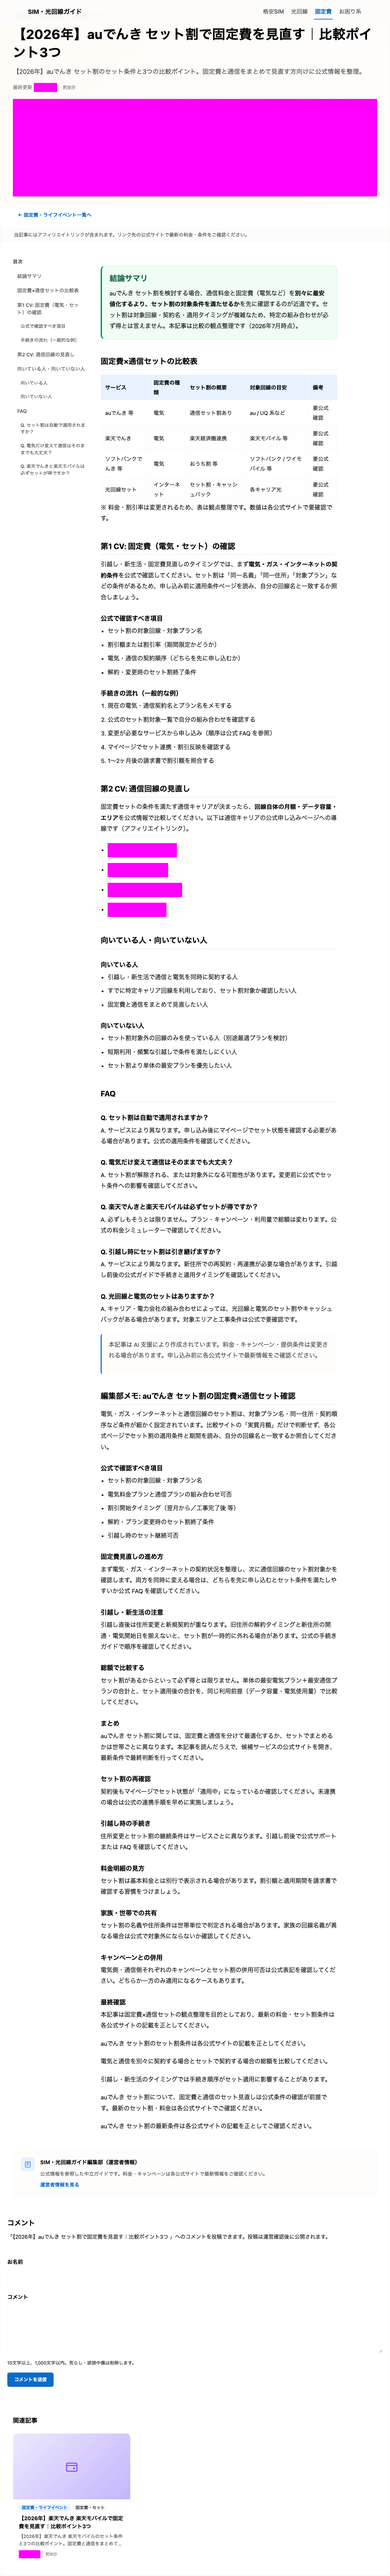
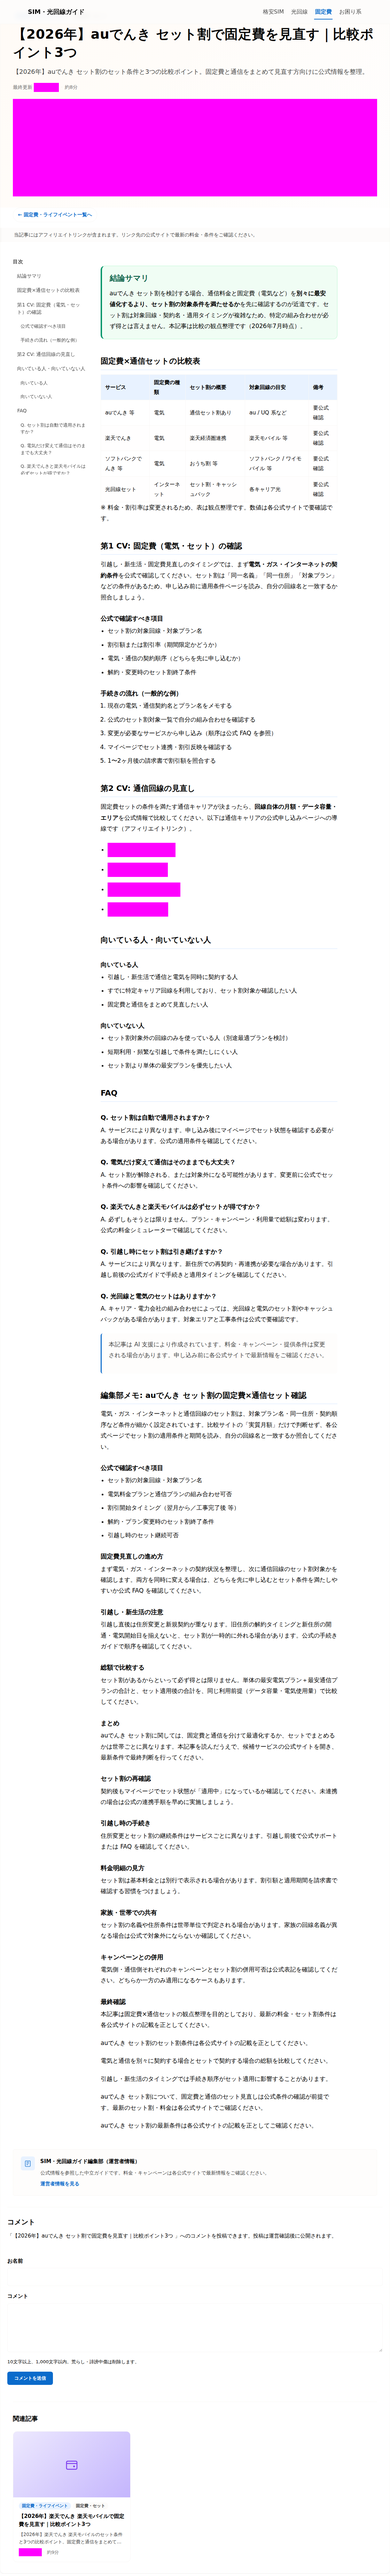
fix(site): keep affiliate CTAs on Vercel builds (#101)
* fix(site): keep affiliate CTAs on Vercel builds

Root-level markdown tables were never wrapped in table-scroll, so CTA
repositioning could still drop links. Sync ASP config into site/config,
clear Astro caches, and fail the build via validate-dist when affiliate
hosts are missing from dist HTML.

* chore(ci): upload visual diff artifacts for PR comment

* chore(ci): update Playwright visual baselines on Linux

* chore(ci): re-trigger CI after baseline update

---------

diff --git a/site/src/utils/asp-urls.ts b/site/src/utils/asp-urls.ts
@@ -37,18 +37,21 @@ type AffiliateRules = {
 };
 
 function resolveConfigDir(): string {
-  const fromSource = join(
-    dirname(fileURLToPath(import.meta.url)),
-    "../../../config",
-  );
-  if (existsSync(join(fromSource, "asp-urls.json"))) {
-    return fromSource;
+  const moduleDir = dirname(fileURLToPath(import.meta.url));
+  const candidates = [
+    // Prefer site-local config (Vercel Root Directory = site).
+    join(moduleDir, "../../config"),
+    join(process.cwd(), "config"),
+    // Monorepo root config (local CI / repo-root tooling).
+    join(moduleDir, "../../../config"),
+    join(process.cwd(), "../config"),
+  ];
+  for (const dir of candidates) {
+    if (existsSync(join(dir, "asp-urls.json"))) {
+      return dir;
+    }
   }
-  const fromSiteCwd = join(process.cwd(), "../config");
-  if (existsSync(join(fromSiteCwd, "asp-urls.json"))) {
-    return fromSiteCwd;
-  }
-  return fromSource;
+  return candidates[0];
 }
 
 const configDir = resolveConfigDir();

diff --git a/site/src/plugins/rehype-affiliate-cta.ts b/site/src/plugins/rehype-affiliate-cta.ts
@@ -19,7 +19,10 @@ function hasClass(node: Element, className: string): boolean {
   if (Array.isArray(classNames)) {
     return classNames.includes(className);
   }
-  return classNames === className;
+  if (typeof classNames === "string") {
+    return classNames.split(/\s+/).includes(className);
+  }
+  return false;
 }
 
 function getMeaningfulChildren(node: Element) {

diff --git a/site/src/plugins/rehype-cta-placement.ts b/site/src/plugins/rehype-cta-placement.ts
@@ -11,7 +11,10 @@ function hasClass(node: Element, className: string): boolean {
   if (Array.isArray(classNames)) {
     return classNames.includes(className);
   }
-  return classNames === className;
+  if (typeof classNames === "string") {
+    return classNames.split(/\s+/).includes(className);
+  }
+  return false;
 }
 
 function isCtaBlock(node: Element): boolean {

diff --git a/site/src/plugins/rehype-affiliate-tables.ts b/site/src/plugins/rehype-affiliate-tables.ts
@@ -33,7 +33,7 @@ export const rehypeAffiliateAndTables: Plugin<[], Root> = () => {
         node.tagName === "table" &&
         parent &&
         typeof index === "number" &&
-        parent.type === "element"
+        (parent.type === "element" || parent.type === "root")
       ) {
         parent.children[index] = {
           type: "element",

diff --git a/docs/vercel-deploy.md b/docs/vercel-deploy.md
@@ -14,6 +14,15 @@
 
 Vercel プロジェクトの **Root Directory = `site`** のとき、ビルドは Astro プリセットが自動検出する。`site/vercel.json` で www → apex リダイレクト等を定義する。
 
+`site` の `npm run build` は次を含む:
+
+1. Astro キャッシュ削除（`.astro` / `node_modules/.astro`）
+2. `config/asp-urls.json` 等を `site/config/` へ同期（Root Directory 内で解決可能にする）
+3. `astro build`
+4. `validate-dist`（記事 HTML に `px.a8.net` / `valuecommerce.com` が無いとビルド失敗）
+
+これにより、アフィリエイト CTA 欠落を本番へ出しにくくする。
+
 ---
 
 ## 1. Vercel CLI の準備
